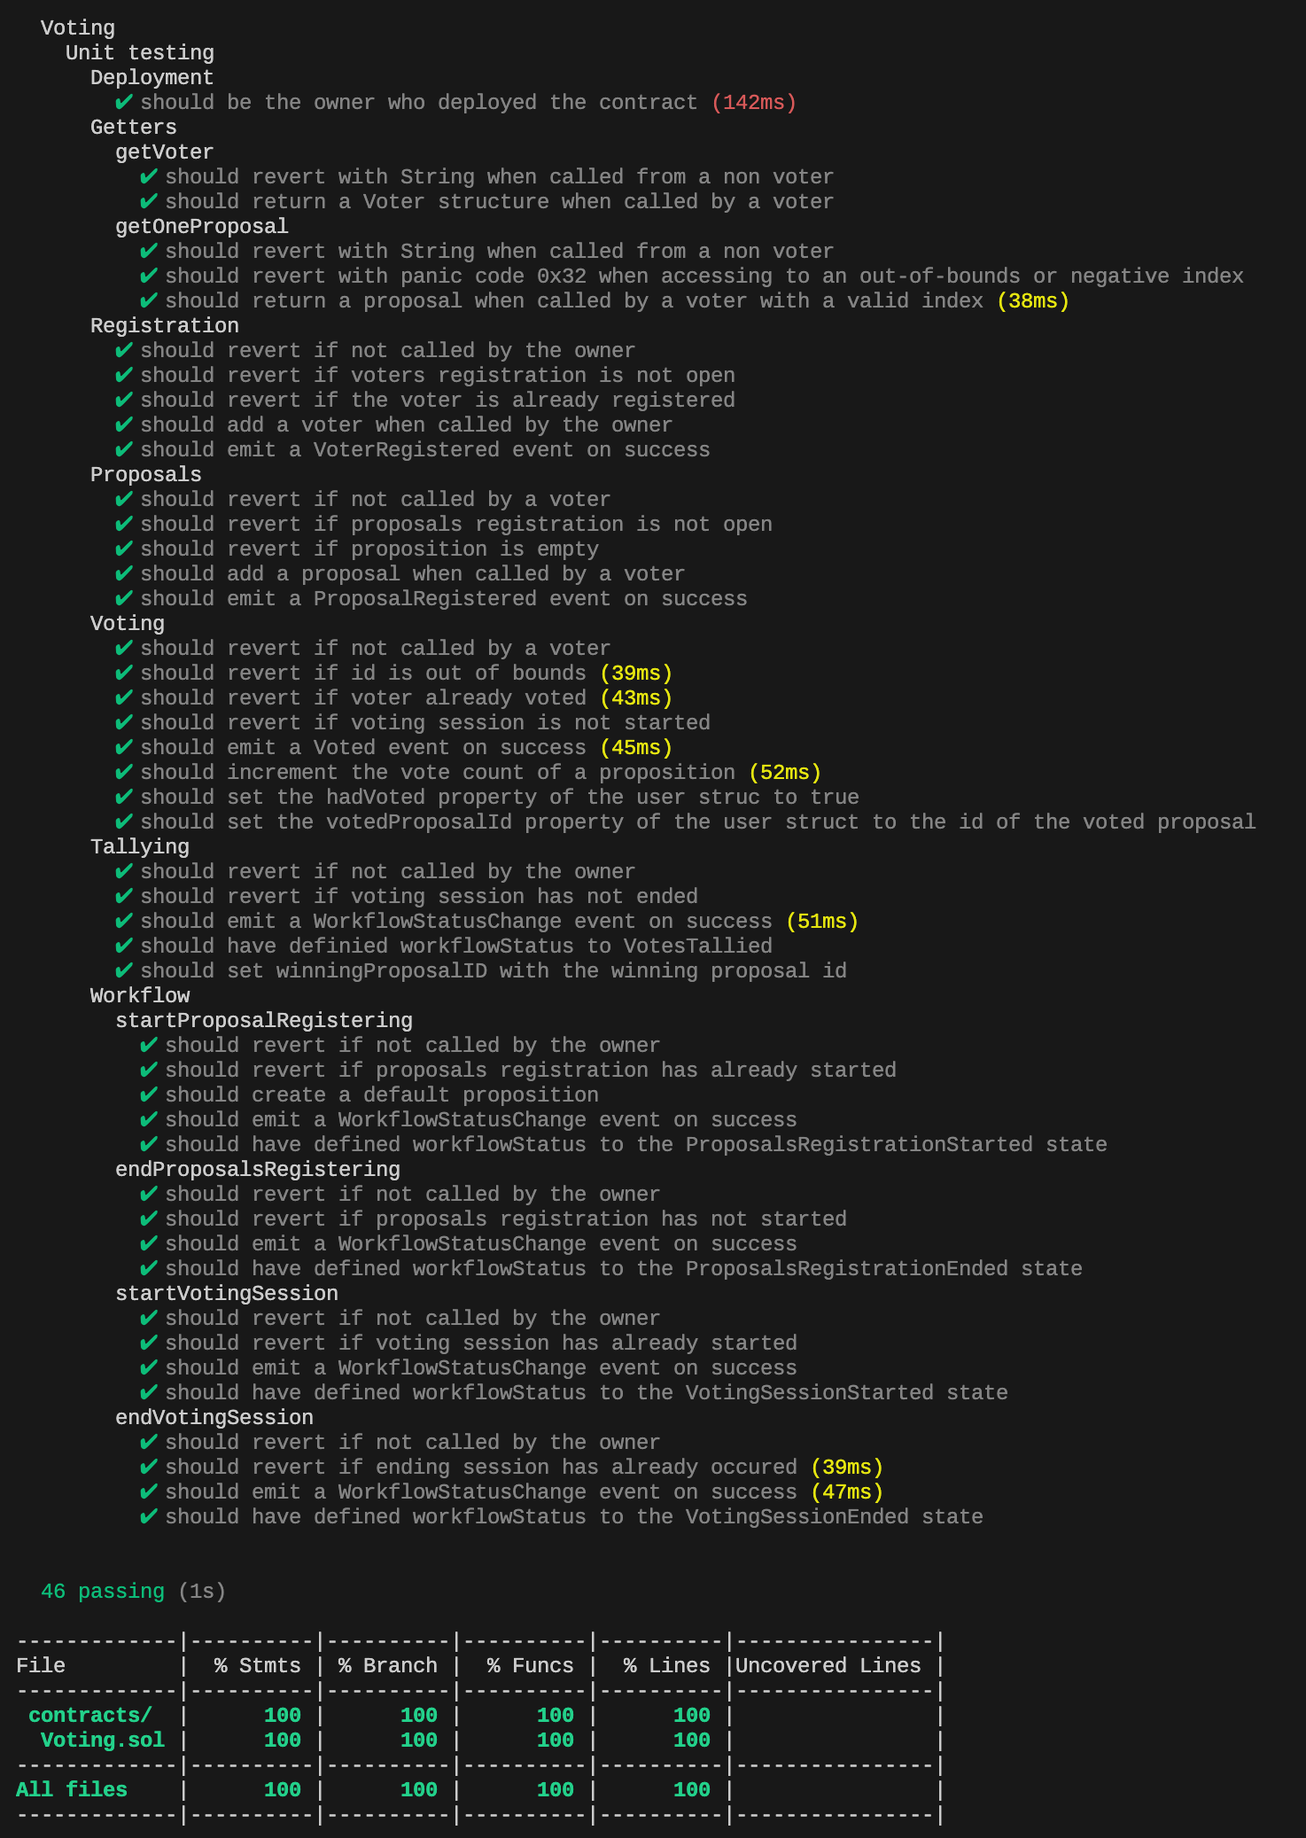
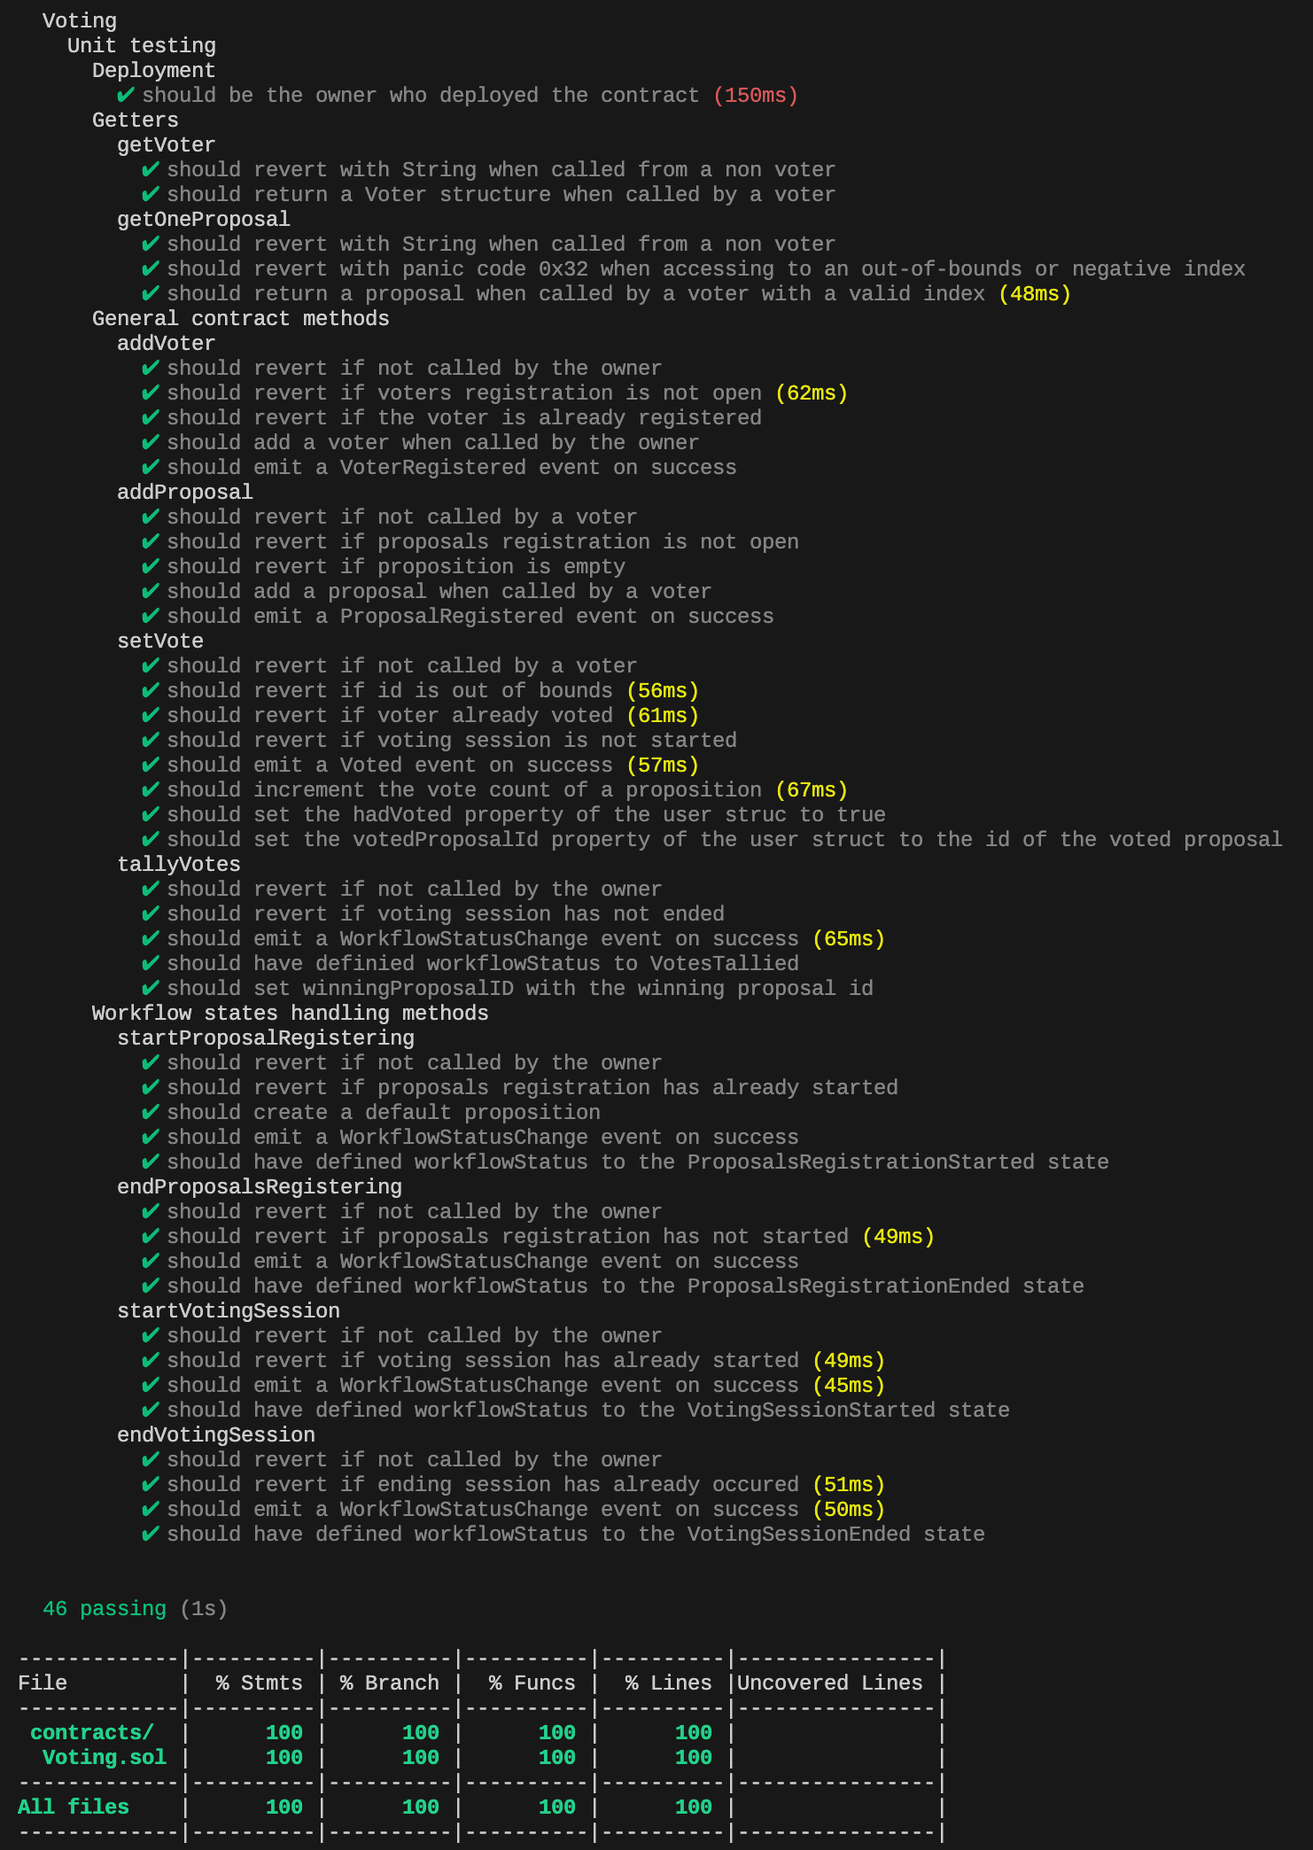
Updated README.md file as well as Voting test file.

Changed region(s): [[0.0312, 0.0, 0.9674, 0.8332], [0.0, 0.864, 0.7178, 1.0]]

diff --git a/test/Voting.test.js b/test/Voting.test.js
@@ -120,178 +120,186 @@ describe('Voting', function () {
             });
         });
 
-        describe('Registration', function () {
-            it('should revert if not called by the owner', async function () {
-                const { voting, addr1 } = await loadFixture(contractInitializationFixture);
+        describe('General contract methods', function () {
+            describe('addVoter', function () {
+                it('should revert if not called by the owner', async function () {
+                    const { voting, addr1 } = await loadFixture(contractInitializationFixture);
 
-                expect(voting.connect(addr1).addVoter(addr1.address)).to.be.revertedWith(
-                    'Ownable: caller is not the owner',
-                );
+                    expect(voting.connect(addr1).addVoter(addr1.address)).to.be.revertedWith(
+                        'Ownable: caller is not the owner',
+                    );
+                });
+
+                it('should revert if voters registration is not open', async function () {
+                    const { voting, owner, addr1 } = await loadFixture(contractStartPropositionsRegisteringFixture);
+
+                    expect(voting.connect(owner).addVoter(addr1.address)).to.be.revertedWith(
+                        'Voters registration is not open yet',
+                    );
+                });
+
+                it('should revert if the voter is already registered', async function () {
+                    const { voting, owner, addr1 } = await loadFixture(contractInitializationFixture);
+                    await voting.connect(owner).addVoter(addr1.address);
+
+                    expect(voting.connect(owner).addVoter(addr1.address)).to.be.revertedWith('Already registered');
+                });
+
+                it('should add a voter when called by the owner', async function () {
+                    const { voting, owner, addr1 } = await loadFixture(contractInitializationFixture);
+                    await voting.connect(owner).addVoter(addr1.address);
+                    const voter = [true, false, BigInt(0)];
+
+                    expect(await voting.connect(addr1).getVoter(addr1.address)).to.eql(voter);
+                });
+
+                it('should emit a VoterRegistered event on success', async function () {
+                    const { voting, owner, addr1 } = await loadFixture(contractInitializationFixture);
+
+                    expect(voting.connect(owner).addVoter(addr1.address))
+                        .to.emit(voting, 'VoterRegistered')
+                        .withArgs(addr1.address);
+                });
             });
 
-            it('should revert if voters registration is not open', async function () {
-                const { voting, owner, addr1 } = await loadFixture(contractStartPropositionsRegisteringFixture);
+            describe('addProposal', function () {
+                it('should revert if not called by a voter', async function () {
+                    const { voting, owner } = await loadFixture(contractInitializationFixture);
 
-                expect(voting.connect(owner).addVoter(addr1.address)).to.be.revertedWith(
-                    'Voters registration is not open yet',
-                );
+                    expect(voting.connect(owner).addProposal('Alyra')).to.be.revertedWith(`You're not a voter!`);
+                });
+
+                it('should revert if proposals registration is not open', async function () {
+                    const { voting, owner, addr1 } = await loadFixture(contractInitializationFixture);
+                    await voting.connect(owner).addVoter(addr1.address);
+
+                    expect(voting.connect(addr1).addProposal('Alyra')).to.be.revertedWith(
+                        'Proposals are not allowed yet',
+                    );
+                });
+
+                it('should revert if proposition is empty', async function () {
+                    const { voting, owner, addr1 } = await loadFixture(contractStartPropositionsRegisteringFixture);
+
+                    expect(voting.connect(addr1).addProposal('')).to.be.revertedWith(
+                        'Vous ne pouvez pas ne rien proposer',
+                    );
+                });
+
+                it('should add a proposal when called by a voter', async function () {
+                    const { voting, owner, addr1 } = await loadFixture(contractStartPropositionsRegisteringFixture);
+                    await voting.connect(addr1).addProposal('Alyra');
+                    const proposal = ['Alyra', BigInt(0)];
+
+                    expect(await voting.connect(addr1).getOneProposal(1)).to.eql(proposal);
+                });
+
+                it('should emit a ProposalRegistered event on success', async function () {
+                    const { voting, owner, addr1 } = await loadFixture(contractStartPropositionsRegisteringFixture);
+
+                    expect(voting.connect(addr1).addProposal('GENESIS'))
+                        .to.emit(voting, 'ProposalRegistered')
+                        .withArgs(1);
+                });
             });
 
-            it('should revert if the voter is already registered', async function () {
-                const { voting, owner, addr1 } = await loadFixture(contractInitializationFixture);
-                await voting.connect(owner).addVoter(addr1.address);
+            describe('setVote', function () {
+                it('should revert if not called by a voter', async function () {
+                    const { voting, owner, addr1 } = await loadFixture(contractInitializationFixture);
 
-                expect(voting.connect(owner).addVoter(addr1.address)).to.be.revertedWith('Already registered');
+                    expect(voting.connect(owner).setVote(0)).to.be.revertedWith(`You're not a voter!`);
+                });
+
+                it('should revert if id is out of bounds', async function () {
+                    const { voting, owner, addr1 } = await loadFixture(contractStartVotingFixture);
+
+                    expect(voting.connect(addr1).setVote(3)).to.be.revertedWith('Proposal not found');
+                });
+
+                it('should revert if voter already voted', async function () {
+                    const { voting, owner, addr1 } = await loadFixture(contractStartVotingAndVoteFixture);
+
+                    expect(voting.connect(addr1).setVote(1)).to.be.revertedWith('You have already voted');
+                });
+
+                it('should revert if voting session is not started', async function () {
+                    const { voting, owner, addr1 } = await loadFixture(contractInitializationFixture);
+                    await voting.connect(owner).addVoter(addr1.address);
+
+                    expect(voting.connect(addr1).setVote(0)).to.be.revertedWith('Voting session havent started yet');
+                });
+
+                it('should emit a Voted event on success', async function () {
+                    const { voting, owner, addr1 } = await loadFixture(contractStartVotingFixture);
+
+                    expect(voting.connect(addr1).setVote(1)).to.emit(voting, 'Voted').withArgs(addr1.address, 1);
+                });
+
+                it('should increment the vote count of a proposition', async function () {
+                    const { voting, owner, addr1 } = await loadFixture(contractStartVotingAndVoteFixture);
+                    const proposal = ['Alyra', BigInt(1)];
+
+                    expect(await voting.connect(addr1).getOneProposal(1)).to.eql(proposal);
+                });
+
+                it('should set the hadVoted property of the user struc to true', async function () {
+                    const { voting, owner, addr1 } = await loadFixture(contractStartVotingAndVoteFixture);
+                    const voter = await voting.connect(addr1).getVoter(addr1.address);
+
+                    expect(voter.hasVoted).to.be.true;
+                });
+
+                it('should set the votedProposalId property of the user struct to the id of the voted proposal', async function () {
+                    const { voting, owner, addr1 } = await loadFixture(contractStartVotingAndVoteFixture);
+                    const voter = await voting.connect(addr1).getVoter(addr1.address);
+
+                    expect(voter.votedProposalId).to.be.equal(1);
+                });
             });
 
-            it('should add a voter when called by the owner', async function () {
-                const { voting, owner, addr1 } = await loadFixture(contractInitializationFixture);
-                await voting.connect(owner).addVoter(addr1.address);
-                const voter = [true, false, BigInt(0)];
+            describe('tallyVotes', function () {
+                it('should revert if not called by the owner', async function () {
+                    const { voting, owner, addr1 } = await loadFixture(contractStartVotingAndVoteFixture);
 
-                expect(await voting.connect(addr1).getVoter(addr1.address)).to.eql(voter);
-            });
+                    expect(voting.connect(addr1).tallyVotes()).to.be.revertedWith(`Ownable: caller is not the owner`);
+                });
 
-            it('should emit a VoterRegistered event on success', async function () {
-                const { voting, owner, addr1 } = await loadFixture(contractInitializationFixture);
+                it('should revert if voting session has not ended', async function () {
+                    const { voting, owner } = await loadFixture(contractStartVotingFixture);
 
-                expect(voting.connect(owner).addVoter(addr1.address))
-                    .to.emit(voting, 'VoterRegistered')
-                    .withArgs(addr1.address);
+                    expect(voting.connect(owner).tallyVotes()).to.be.revertedWith(
+                        'Current status is not voting session ended',
+                    );
+                });
+
+                it('should emit a WorkflowStatusChange event on success', async function () {
+                    const { voting, owner } = await loadFixture(contractStartVotingAndVoteFixture);
+                    await voting.connect(owner).endVotingSession();
+
+                    expect(await voting.connect(owner).tallyVotes())
+                        .to.emit(voting, 'WorkflowStatusChange')
+                        .withArgs(WorkflowStatus.VotingSessionEnded, WorkflowStatus.VotesTallied);
+                });
+
+                it('should have definied workflowStatus to VotesTallied', async function () {
+                    const { voting, owner } = await loadFixture(contractStartVotingAndVoteFixture);
+                    await voting.connect(owner).endVotingSession();
+                    await voting.connect(owner).tallyVotes();
+
+                    expect(await voting.workflowStatus()).to.be.equal(WorkflowStatus.VotesTallied);
+                });
+
+                it('should set winningProposalID with the winning proposal id', async function () {
+                    const { voting, owner } = await loadFixture(contractStartVotingAndVoteFixture);
+                    await voting.connect(owner).endVotingSession();
+                    await voting.connect(owner).tallyVotes();
+
+                    expect(await voting.winningProposalID()).to.be.equal(1);
+                });
             });
         });
 
-        describe('Proposals', function () {
-            it('should revert if not called by a voter', async function () {
-                const { voting, owner } = await loadFixture(contractInitializationFixture);
-
-                expect(voting.connect(owner).addProposal('Alyra')).to.be.revertedWith(`You're not a voter!`);
-            });
-
-            it('should revert if proposals registration is not open', async function () {
-                const { voting, owner, addr1 } = await loadFixture(contractInitializationFixture);
-                await voting.connect(owner).addVoter(addr1.address);
-
-                expect(voting.connect(addr1).addProposal('Alyra')).to.be.revertedWith('Proposals are not allowed yet');
-            });
-
-            it('should revert if proposition is empty', async function () {
-                const { voting, owner, addr1 } = await loadFixture(contractStartPropositionsRegisteringFixture);
-
-                expect(voting.connect(addr1).addProposal('')).to.be.revertedWith('Vous ne pouvez pas ne rien proposer');
-            });
-
-            it('should add a proposal when called by a voter', async function () {
-                const { voting, owner, addr1 } = await loadFixture(contractStartPropositionsRegisteringFixture);
-                await voting.connect(addr1).addProposal('Alyra');
-                const proposal = ['Alyra', BigInt(0)];
-
-                expect(await voting.connect(addr1).getOneProposal(1)).to.eql(proposal);
-            });
-
-            it('should emit a ProposalRegistered event on success', async function () {
-                const { voting, owner, addr1 } = await loadFixture(contractStartPropositionsRegisteringFixture);
-
-                expect(voting.connect(addr1).addProposal('GENESIS')).to.emit(voting, 'ProposalRegistered').withArgs(1);
-            });
-        });
-
-        describe('Voting', function () {
-            it('should revert if not called by a voter', async function () {
-                const { voting, owner, addr1 } = await loadFixture(contractInitializationFixture);
-
-                expect(voting.connect(owner).setVote(0)).to.be.revertedWith(`You're not a voter!`);
-            });
-
-            it('should revert if id is out of bounds', async function () {
-                const { voting, owner, addr1 } = await loadFixture(contractStartVotingFixture);
-
-                expect(voting.connect(addr1).setVote(3)).to.be.revertedWith('Proposal not found');
-            });
-
-            it('should revert if voter already voted', async function () {
-                const { voting, owner, addr1 } = await loadFixture(contractStartVotingAndVoteFixture);
-
-                expect(voting.connect(addr1).setVote(1)).to.be.revertedWith('You have already voted');
-            });
-
-            it('should revert if voting session is not started', async function () {
-                const { voting, owner, addr1 } = await loadFixture(contractInitializationFixture);
-                await voting.connect(owner).addVoter(addr1.address);
-
-                expect(voting.connect(addr1).setVote(0)).to.be.revertedWith('Voting session havent started yet');
-            });
-
-            it('should emit a Voted event on success', async function () {
-                const { voting, owner, addr1 } = await loadFixture(contractStartVotingFixture);
-
-                expect(voting.connect(addr1).setVote(1)).to.emit(voting, 'Voted').withArgs(addr1.address, 1);
-            });
-
-            it('should increment the vote count of a proposition', async function () {
-                const { voting, owner, addr1 } = await loadFixture(contractStartVotingAndVoteFixture);
-                const proposal = ['Alyra', BigInt(1)];
-
-                expect(await voting.connect(addr1).getOneProposal(1)).to.eql(proposal);
-            });
-
-            it('should set the hadVoted property of the user struc to true', async function () {
-                const { voting, owner, addr1 } = await loadFixture(contractStartVotingAndVoteFixture);
-                const voter = await voting.connect(addr1).getVoter(addr1.address);
-
-                expect(voter.hasVoted).to.be.true;
-            });
-
-            it('should set the votedProposalId property of the user struct to the id of the voted proposal', async function () {
-                const { voting, owner, addr1 } = await loadFixture(contractStartVotingAndVoteFixture);
-                const voter = await voting.connect(addr1).getVoter(addr1.address);
-
-                expect(voter.votedProposalId).to.be.equal(1);
-            });
-        });
-
-        describe('Tallying', function () {
-            it('should revert if not called by the owner', async function () {
-                const { voting, owner, addr1 } = await loadFixture(contractStartVotingAndVoteFixture);
-
-                expect(voting.connect(addr1).tallyVotes()).to.be.revertedWith(`Ownable: caller is not the owner`);
-            });
-
-            it('should revert if voting session has not ended', async function () {
-                const { voting, owner } = await loadFixture(contractStartVotingFixture);
-
-                expect(voting.connect(owner).tallyVotes()).to.be.revertedWith(
-                    'Current status is not voting session ended',
-                );
-            });
-
-            it('should emit a WorkflowStatusChange event on success', async function () {
-                const { voting, owner } = await loadFixture(contractStartVotingAndVoteFixture);
-                await voting.connect(owner).endVotingSession();
-
-                expect(await voting.connect(owner).tallyVotes())
-                    .to.emit(voting, 'WorkflowStatusChange')
-                    .withArgs(WorkflowStatus.VotingSessionEnded, WorkflowStatus.VotesTallied);
-            });
-
-            it('should have definied workflowStatus to VotesTallied', async function () {
-                const { voting, owner } = await loadFixture(contractStartVotingAndVoteFixture);
-                await voting.connect(owner).endVotingSession();
-                await voting.connect(owner).tallyVotes();
-
-                expect(await voting.workflowStatus()).to.be.equal(WorkflowStatus.VotesTallied);
-            });
-
-            it('should set winningProposalID with the winning proposal id', async function () {
-                const { voting, owner } = await loadFixture(contractStartVotingAndVoteFixture);
-                await voting.connect(owner).endVotingSession();
-                await voting.connect(owner).tallyVotes();
-
-                expect(await voting.winningProposalID()).to.be.equal(1);
-            });
-        });
-
-        describe('Workflow', function () {
+        describe('Workflow states handling methods', function () {
             describe('startProposalRegistering', function () {
                 it('should revert if not called by the owner', async function () {
                     const { voting, owner, addr1 } = await loadFixture(contractInitializationFixture);

diff --git a/README.md b/README.md
@@ -16,6 +16,17 @@ Vous devez alors fournir les tests unitaires de votre smart contract Nous n’at
 
 ## :point_right: Stratégie de test
 
+Le plan de test est simple: passer en revue l'ensemble des méthodes du contract _Voting.sol_. Pour cela nous avons effectué les tâches suivantes:
+
+-   Définit un objet _WorkflowStatus_ pour répliquer l'enum des différents états du workflow qui se trouve dans le contrat _Voting.sol_.
+-   Définit nos fixtures pour préparer notre environnement pour nos tests. J'ai pris l'initiative de n'utiliser que des fixtures et aucun appel aux fonctions natives de mocha: _before_ et _beforeEach_. Afin d'améliorer mon code j'ai pris le parti de composer mes fixtures avec des fonctions que je peux réutiliser dans différentes fixtures.
+-   Définit nos tests unitaires en passant sur chaque méthode. Chaque méthode correspond à un _describe_ qui contient plusieurs tests propre à cette dernière. Pour chaque méthode et afin de déterminer les tests à réaliser nous avons suivi les étapes suivantes:
+    -   Tester le/les modifiers
+    -   Tester les différents require
+    -   Tester les événements émis
+    -   Tester un cas de succès
+    -   Eventuels autres tests
+
 ## :point_right: Coverage
 
 ### Hardhat tests run
